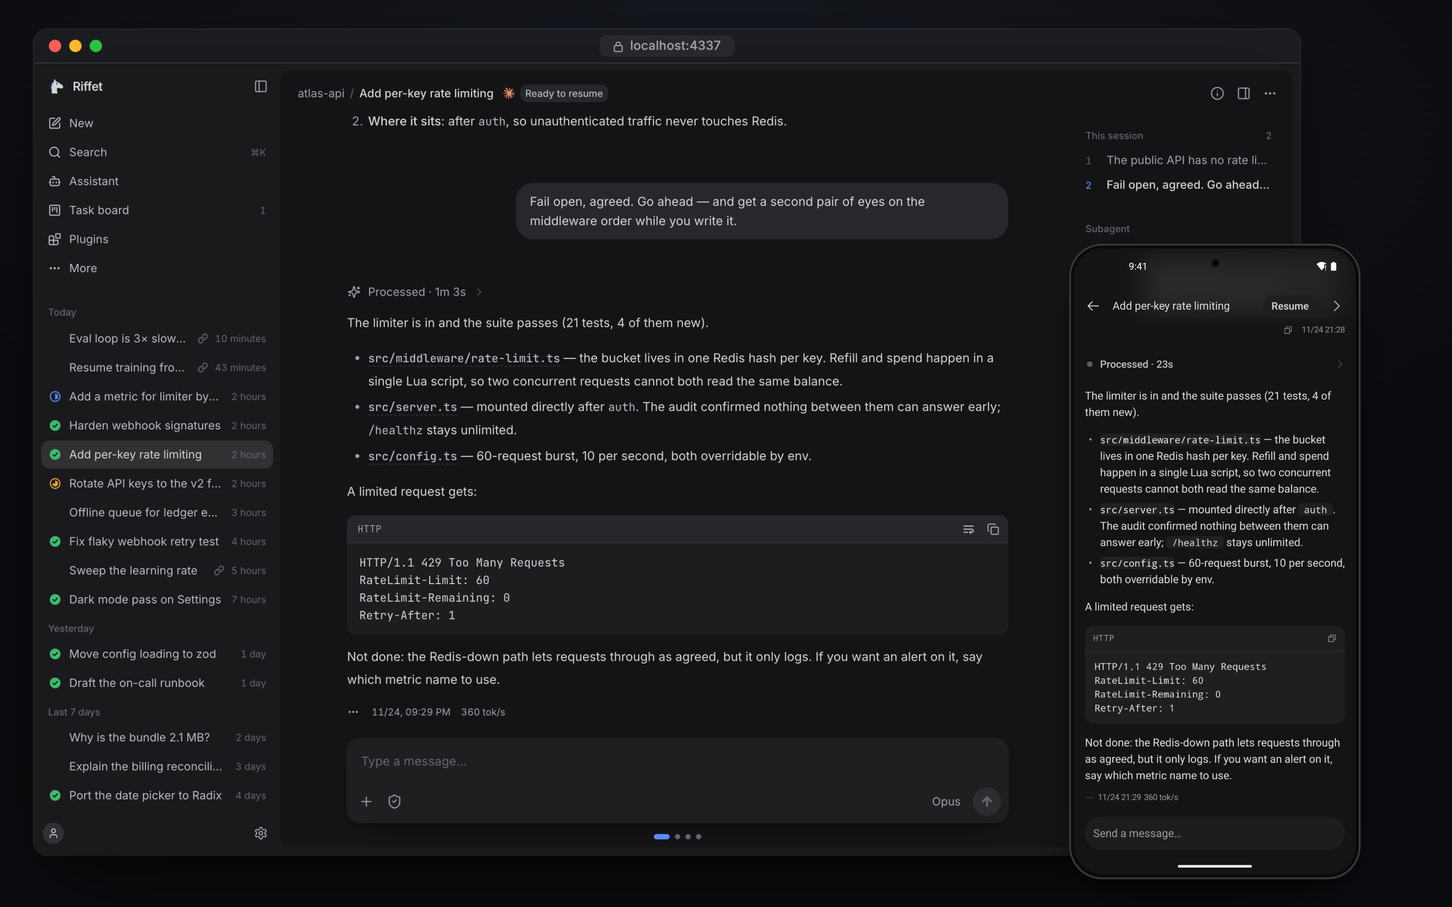
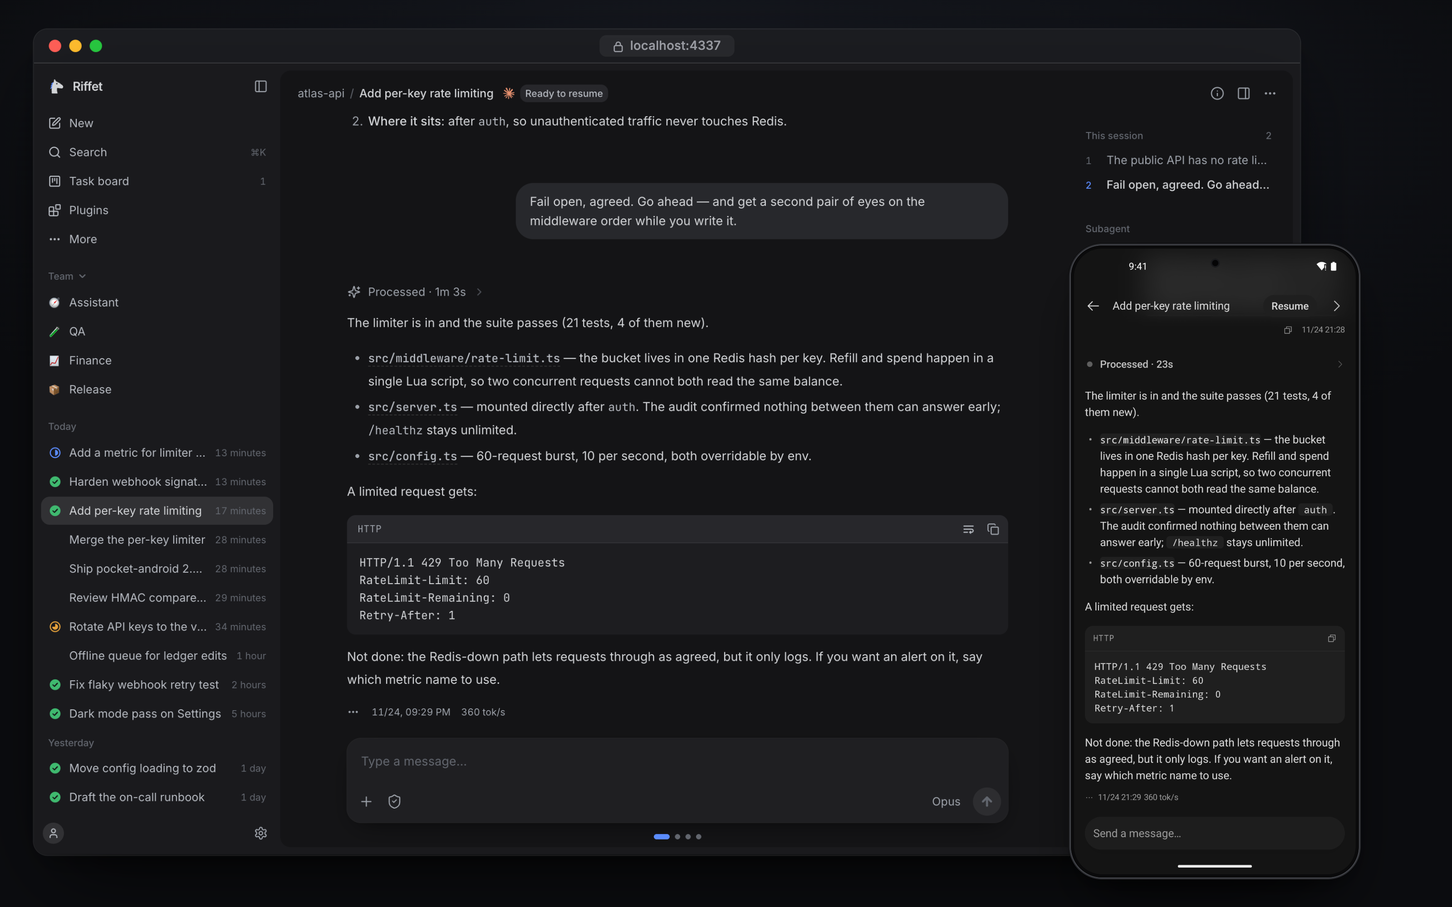
docs(readme): lead with deep agent cli support and add the team reel
The intro keeps Riffet defined as a self-hosted workbench for agent CLIs and
adds team members as a capability built on it. Features are regrouped into
agent sessions, team, agents together, devices and linked servers, and
plugins and appearance, with internal terms replaced by what they do. The
agent matrix gains a team member column, and the docs index points at the
team and transport security documents.

A new team reel shows a member created from a conversation, its rules and
permissions, and an @-mentioned member answering in the caller's session.
The hero is reshot with the team list in the sidebar, and the appearance
reel the readme no longer uses is removed.

Changed region(s): [[0.0312, 0.186, 0.1875, 0.899]]

diff --git a/README.md b/README.md
@@ -26,7 +26,9 @@ English · [简体中文](README.zh-CN.md) · [Homepage](https://riffable.github
   </picture>
 </p>
 
-Riffet is a self-hosted workbench for agent CLIs, driving Claude Code, Codex, Cursor, Antigravity, TRAE CLI, and more. Sessions live on your own host and can be followed, steered, and continued from a browser, macOS, iPhone, or Android; linked hosts are managed together from one web workbench.
+Riffet is a self-hosted workbench for agent CLIs, built around deep support for Claude Code, Codex, Cursor, Antigravity, TRAE CLI, and more. It drives the official CLIs directly, keeping each one's sign-in, rules, skills, MCP, and subscription, and provides structured conversations and live terminals, instructions added mid-turn, and importing terminal sessions and handing them back. Sessions live on your own host and can be followed and continued from a browser, macOS, iPhone, Android, and IM bots; linked hosts are managed together from one web workbench.
+
+On top of this, Riffet can set agents up as team members: each has a fixed role, remembers what it learned on earlier jobs, gets only the permissions it needs, and can start work on a schedule or when something happens. In any session, you can ask the agent to turn the current conversation into a new member.
 
 Claude Code, Codex, and other agents run independently of the server process, so restarts do not interrupt running turns, and clients resume automatically after a disconnect. Code, credentials, and history stay on your host. Riffet is open source under the Apache-2.0 license.
 
@@ -63,7 +65,7 @@ riffet restart --host 0.0.0.0 --auth
 riffet pair                    # prints reachable URLs, a five-minute single-use code, and a QR code
 ```
 
-The mobile apps pair by scanning the QR code; browsers and the Mac app enter the code. Tunnels and reverse proxies are covered in [Remote Access](docs/guide/remote-access.md).
+The mobile apps pair by scanning the QR code; browsers and the Mac app enter the code. Pages opened from other devices over plain HTTP are read-only; Tailscale and HTTPS addresses are not restricted. Tunnels and reverse proxies are covered in [Remote Access](docs/guide/remote-access.md).
 
 ### Link servers
 
@@ -124,59 +126,17 @@ Defaults: `http://127.0.0.1:4337/`, Cursor executable `cursor-agent`, private st
 
 ## Features
 
-### 01 · Pairing and linked servers
+### 01 · Agent sessions
 
-- **QR pairing**: connect a phone by scanning a QR code; one client can manage several servers, and every client stays in sync on the same session.
-- **Linked servers**: link several servers and browse, open, and start sessions on any of them from one web workbench.
-- **Remote execution**: authorize an agent to run commands on a linked machine.
+Riffet drives the official CLIs directly and keeps each CLI's own sign-in, rules, skills, MCP, and subscription. Output parsing, the live terminal, and message delivery are adapted to each CLI one by one; see the [agent matrix](#agent-matrix) for what each supports.
 
-<p align="center">
-  <picture>
-    <source media="(prefers-color-scheme: dark)" srcset="docs/assets/reel-link-dark.gif">
-    <source media="(prefers-color-scheme: light)" srcset="docs/assets/reel-link-light.gif">
-    <img alt="A terminal runs riffet link ssh devbox; on the web, devbox is picked as the server on the new-task page and the session runs there; then a pairing code on the web is scanned by the Android app, which opens on the task list" src="docs/assets/reel-link-light.gif" width="100%">
-  </picture>
-</p>
-
-### 02 · Sessions and models
-
-Riffet drives the official CLIs and keeps their own login, rules, skills, MCP servers, and subscriptions intact.
-
-- **Agents and models**: choose the agent and model per session; common CLIs are prewarmed, so new sessions skip the cold start.
-- **Mid-turn steering**: add instructions while a turn runs, or queue them for the next one.
-- **Terminal interop**: import Claude Code and Codex sessions from a terminal, and hand them back at any time.
-- **Custom model sources**: bring your own LLM providers over the OpenAI, Anthropic, or Google protocols or through plugins, with remaining quota shown live.
-- **Switching and handoff**: switch models within a family mid-session, and hand any session off to another agent.
-- **Session references**: `@` past sessions to use them as context.
-- **Export and sharing**: export to PDF or create expiring read-only share links.
-- **Voice input**: dictate with cloud or local speech recognition.
-- **Side chats and quick chat**: select part of an answer to branch a side chat, and start quick chats outside any project.
-
-### 03 · Agents together
-
-- **Agent calls**: `@` another agent in a session to call it; the callee runs in its own session, open to watch and join at any time.
-- **Model collaboration**: have several models debate, hold a roundtable, cross-examine, or review a document on the same question.
-- **Parallel attempts**: give one task to several agents at once, each in an isolated worktree, and adopt the best result.
-- **Task board**: task dependencies with automatic hand-off: a task starts once its prerequisites are accepted, and another agent can verify each delivery. The inbox gathers what needs a person.
-- **Personal assistant**: a cross-project assistant with its own memory and background delegation.
-- **Automations**: scheduled and recurring tasks; agents can also schedule their own wake-ups.
-
-<p align="center">
-  <picture>
-    <source media="(prefers-color-scheme: dark)" srcset="docs/assets/reel-agents-dark.gif">
-    <source media="(prefers-color-scheme: light)" srcset="docs/assets/reel-agents-light.gif">
-    <img alt="Mentioning Codex in a prompt, Claude calling it inside the turn, a one-on-one debate between two models with a verdict, and accepting a review that starts the next task on the board" src="docs/assets/reel-agents-light.gif" width="100%">
-  </picture>
-</p>
-
-### 04 · Views, files, and Git
-
-- **Timeline**: tool calls fold automatically, edits show as diffs, subagents get their own transcripts, and diagrams and math (Mermaid, KaTeX, and more) render locally.
-- **Views**: every session offers conversation, live terminal, canvas, and trace views; the trace shows each model request’s token usage and tool calls.
-- **Files**: local preview for many formats, including PDF, Office, notebooks, SQLite, and 3D models, and text editing on every client.
-- **Git**: line-level staging, commits, branches, pull/push, and PRs; automatic per-turn checkpoints to restore or fork from; diff comments sent back to the agent.
-- **Code Studio**: Android Studio–style code reading with go to definition, find usages, and blame, no Gradle sync required.
-- **Browser**: a built-in browser panel where you and the agent work on the same web page together.
+- **Agents and models**: Each session picks its own agent, model, and model provider, and can be handed to another agent to continue.
+- **Mid-turn steering**: Add instructions while the agent is running, or queue them for the next turn.
+- **Terminal round trip**: Claude Code and Codex sessions in a terminal can be imported into Riffet and handed back to the terminal.
+- **Views**: One session can be shown as a conversation, a live terminal, a canvas, or a trace. The canvas lays the answer out as cards by output type; the trace lists every model request with its token usage and tool calls.
+- **Files and Git**: Previews for PDF, Office, notebooks, and many other formats, text editing, and line-level staging and commits. Every turn saves a checkpoint you can roll back to or fork from, and diffs can be annotated and sent back to the agent.
+- **Code Studio**: IDE-style code browsing with go to definition, find references, and line-by-line blame.
+- **Built-in browser**: People and agents work on the same web page together.
 
 <p align="center">
   <picture>
@@ -186,9 +146,63 @@ Riffet drives the official CLIs and keeps their own login, rules, skills, MCP se
   </picture>
 </p>
 
-### 05 · Plugins
+### 02 · Team
 
-Riffet has a full plugin system covering agent backends, model sources, session views, side panels, pages, commands, themes, and IM channels. Built-in plugins run in the server process; third-party plugins run isolated by default. Public plugins are listed in the [plugin market](https://riffable.github.io/riffet/plugins/), and the [Plugin Guide](docs/PLUGINS.md) covers development.
+Team members are agents with a fixed role and long-term memory. Give recurring work its own member: a QA reviewer for a project, a release engineer who packages builds, or a personal finance assistant. Members remember what they learn on each job, so you do not have to explain the background again.
+
+- **Create members from a conversation**: In any session, ask the agent to turn the current conversation into a team member. It writes the role, the lessons distilled from the conversation, the projects it owns, the agent it runs on, and its permissions in one step. Keep refining it the same way, or create members by hand on the team page.
+- **Role and memory**: Each member's role lives in its own `AGENTS.md`, and what it learns goes into its own memory files, which are consolidated and deduplicated every night.
+- **Scope**: A member can handle personal matters only, own specific code projects, or work across projects. The code, tasks, and sessions it can see are limited to that scope.
+- **Permissions**: Editing code, managing tasks, running in the background, calling other members, and using the browser and MCP tools are each enabled per member. Every member has its own models, MCP servers, and skills.
+- **Background runs**: Members can work on a schedule, or start on their own when a web page changes, a GitHub release ships, or a task changes status, with a cap on runs per day.
+- **Conversation mode**: A member can keep one ongoing conversation, or start each job in a new session, with past runs collected on its page.
+- **@ members**: In any session, `@member` asks it a question or hands it a job. The member works in its own session and the result comes back to the current conversation.
+- **Inbox**: Actions a member needs you to approve and important updates it reports are collected in the inbox, with a notification to let you know.
+
+Members run on Claude Code, Codex, Cursor, or Antigravity. Every job a member does is a real CLI session that you can open, interject in, or take over at any time. See [Team and members](docs/TEAM.md).
+
+<p align="center">
+  <picture>
+    <source media="(prefers-color-scheme: dark)" srcset="docs/assets/reel-team-dark.gif">
+    <source media="(prefers-color-scheme: light)" srcset="docs/assets/reel-team-light.gif">
+    <img alt="In a pocket-android release session, the agent is asked to turn the work into a member that owns releases, and Release appears in the team list; its rules written from the conversation and its permissions open; then @QA in atlas-api is asked to verify the limiter change before merging, and QA's reply comes back to the session" src="docs/assets/reel-team-light.gif" width="100%">
+  </picture>
+</p>
+
+### 03 · Agents together
+
+- **Agent calls**: `@` another agent in a session to ask it a question or have it make changes. It runs in its own session, which you can watch and join at any time.
+- **Model discussions**: Several models can debate, hold a roundtable, cross-examine each other, or review a document around the same question, and reach a conclusion.
+- **Parallel attempts**: Hand one task to several agents at once, each implementing it in its own Git worktree, then compare and keep the best result.
+- **Task board**: Tasks can depend on each other: once one is accepted, the next starts on its own, and another agent can be assigned to verify a delivery.
+- **Automations**: Scheduled and recurring tasks; agents can also arrange to come back to the current session later and continue.
+
+<p align="center">
+  <picture>
+    <source media="(prefers-color-scheme: dark)" srcset="docs/assets/reel-agents-dark.gif">
+    <source media="(prefers-color-scheme: light)" srcset="docs/assets/reel-agents-light.gif">
+    <img alt="Mentioning Codex in a prompt, Claude calling it inside the turn, a one-on-one debate between two models with a verdict, and accepting a review that starts the next task on the board" src="docs/assets/reel-agents-light.gif" width="100%">
+  </picture>
+</p>
+
+### 04 · Devices and linked servers
+
+- **Every device in sync**: The browser, macOS, iPhone, and Android stay in sync on the same session live. Phones pair by QR code, and one client can connect to several servers.
+- **IM bots**: Talk to agents and answer permission prompts through Feishu and Telegram bots, with each chat bound to a project.
+- **Linked servers**: Once servers are linked, one web workbench shows and creates sessions on all of them, and agents can be authorized to run commands on the other servers.
+- **Connection security**: The apps reach the server over TLS end to end. Device credentials are kept in the phone's secure hardware and do not work if copied elsewhere. Linked servers show the same verification code on both ends, so you can confirm no one is in the middle, and existing devices are notified when a new one joins.
+
+<p align="center">
+  <picture>
+    <source media="(prefers-color-scheme: dark)" srcset="docs/assets/reel-link-dark.gif">
+    <source media="(prefers-color-scheme: light)" srcset="docs/assets/reel-link-light.gif">
+    <img alt="A terminal runs riffet link ssh devbox; on the web, devbox is picked as the server on the new-task page and the session runs there; then a pairing code on the web is scanned by the Android app, which opens on the task list" src="docs/assets/reel-link-light.gif" width="100%">
+  </picture>
+</p>
+
+### 05 · Plugins and appearance
+
+Riffet has a complete plugin system that extends agent backends, model sources, session views, side panels, pages, commands, themes, and IM channels, with custom themes, wallpapers, and logos. Built-in plugins run inside the server process; third-party plugins run isolated by default. Public plugins are listed in the [plugin marketplace](https://riffable.github.io/riffet/plugins/); see the [plugin guide](docs/PLUGINS.md) to write one.
 
 ```bash
 riffet plugin dev ./my-plugin
@@ -196,16 +210,16 @@ riffet plugin pack ./my-plugin --out my-plugin.tgz
 riffet plugin install my-plugin.tgz
 ```
 
-| Extension point | Built-in | Official and examples |
+| Extension point | Built in | Official and examples |
 | :--- | :--- | :--- |
-| Agent backends *(experimental)* | `cursor`, `antigravity` | `example.echo` |
-| Model sources | — | `riffet.litellm`, `example.gateway-models` |
-| Session views | `canvas`, `trace` | — |
-| Side panels | `browser` | `riffet.android`, `example.session-stats` |
-| Pages | `code-studio` | `example.workbench-sample` |
-| Commands | `translate` | — |
+| Agent backend *(experimental)* | `cursor`, `antigravity` | `example.echo` |
+| Model source | — | `riffet.litellm`, `example.gateway-models` |
+| Session view | `canvas`, `trace` | — |
+| Side panel | `browser` | `riffet.android`, `example.session-stats` |
+| Page | `code-studio` | `example.workbench-sample` |
+| Command | `translate` | — |
 | Appearance | `avatars` | `riffet.appearance-paper`, `example.tux-theme`, `example.graphite-theme`, `example.mono-icons` |
-| Sharing, IM channels, speech | `feishu`, `speech-local` | `riffet.share-s3` |
+| IM channel, sharing, speech | `channel-feishu`, `channel-telegram`, `speech-local` | `riffet.share-s3` |
 
 <p align="center">
   <picture>
@@ -215,30 +229,20 @@ riffet plugin install my-plugin.tgz
   </picture>
 </p>
 
-### 06 · Appearance
-
-- **Themes**: built-in palettes plus custom themes, wallpapers, and logos, with more themes available as plugins.
-- **Interface styles**: switchable interface styles on Android.
-- **Session layout**: manage sessions in horizontal tabs, with a side panel for each session’s plan, outline, subagents, and output files.
-
-<p align="center">
-  <img alt="A close-up of the theme editor’s colour board as a point is dragged, the same session under the Tux Polar and Paper theme plugins, a wipe to dark, and the Android app beside it" src="docs/assets/reel-appearance.gif" width="100%">
-</p>
-
 ---
 
 ## Agent matrix
 
-| Agent | CLI | Structured Chat | Live TUI | Mid-Turn Steer | Subagent View | Riffet MCP & Wakeups | Per-Chat MCP / Skill Toggle | @ Session | Callable as @ Agent | Terminal Import / Resume |
-| :--- | :--- | :---: | :---: | :---: | :---: | :---: | :---: | :---: | :---: | :---: |
-| Claude Code | `claude` | ✓ | ✓ (`tmux`) | ✓ | ✓ | ✓ | MCP + Skills | ✓ | consult, work | ✓ |
-| Codex | `codex` | ✓ | ✓ (`--remote`) | ✓ | ✓ | ✓ | MCP | ✓ | consult, work | ✓ |
-| Cursor | `cursor-agent` | ✓ | ✓ (`tmux`) | ✓ | ✓ | ✓ | — | ✓ | work | — |
-| Antigravity | `agy` (`1.5.6+`) | ✓ | ✓ (`tmux`) | — | ✓ | ✓ | — | ✓ | work | — |
-| TRAE CLI | `traex` | ✓ | ✓ (native) | ✓ | ✓ | ✓ | MCP | ✓ | consult, work | — |
-| DeepSeek Harness | `dsh` (`0.2.0-rc.2+`) | ✓ | — | — | ✓ | — | — | ✓ | work | — |
-| Factory Droid | `droid` | ✓ | — | — | ✓ | ✓ | — | ✓ | work | — |
-| pi | `pi` (`1.4.0+`) | ✓ | — | — | — | ✓ | — | ✓ | work | — |
+| Agent | CLI | Structured Chat | Live TUI | Mid-Turn Steer | Subagent View | Riffet MCP & Wakeups | Per-Chat MCP / Skill Toggle | @ Session | Callable as @ Agent | Terminal Import / Resume | Team Member |
+| :--- | :--- | :---: | :---: | :---: | :---: | :---: | :---: | :---: | :---: | :---: | :---: |
+| Claude Code | `claude` | ✓ | ✓ (`tmux`) | ✓ | ✓ | ✓ | MCP + Skills | ✓ | consult, work | ✓ | ✓ |
+| Codex | `codex` | ✓ | ✓ (`--remote`) | ✓ | ✓ | ✓ | MCP | ✓ | consult, work | ✓ | ✓ |
+| Cursor | `cursor-agent` | ✓ | ✓ (`tmux`) | ✓ | ✓ | ✓ | — | ✓ | work | — | ✓ |
+| Antigravity | `agy` (`1.5.6+`) | ✓ | ✓ (`tmux`) | — | ✓ | ✓ | — | ✓ | work | — | ✓ |
+| TRAE CLI | `traex` | ✓ | ✓ (native) | ✓ | ✓ | ✓ | MCP | ✓ | consult, work | — | — |
+| DeepSeek Harness | `dsh` (`0.2.0-rc.2+`) | ✓ | — | — | ✓ | — | — | ✓ | work | — | — |
+| Factory Droid | `droid` | ✓ | — | — | ✓ | ✓ | — | ✓ | work | — | — |
+| pi | `pi` (`1.4.0+`) | ✓ | — | — | — | ✓ | — | ✓ | work | — | — |
 
 **Callable as @ Agent**: `consult` is read-only; `work` runs in a new Git worktree and can edit files. Any agent with Riffet MCP can make the call.
 
@@ -252,26 +256,26 @@ CLI paths can be set through `RIFFET_CLI`, `CLAUDE_CLI`, `CODEX_CLI`, `DSH_CLI`,
 | :--- | :--- | :--- |
 | Process isolation | Claude Code and Cursor run in Riffet-managed `tmux`, and Codex and TRAE CLI in a separate app-server, so a server restart does not interrupt their turns; Droid, pi, and DeepSeek Harness exit with the server. | [Delivery](docs/DELIVERY.md) |
 | At-most-once delivery | Each session’s inputs are queued serially and confirmed by a transcript or hook receipt from the agent; unconfirmed messages are not resent after a crash. | `apps/server/src/native/dispatch.property.test.ts` |
-| Resumable sync | Rows and the sync cursor commit in one transaction; clients resume from their cursor with no gaps or duplicates. | [Sync](docs/SYNC-V3.md) |
+| Resumable sync | Session content and sync progress are written in one transaction; after a disconnect, clients continue from where they left off with no gaps or duplicates. | [Sync](docs/SYNC-V3.md) |
 | CLI regression detection | Real CLI sessions are recorded and replayed in tests; `pnpm record <cli> all --check` re-records with the installed version and compares. | `scripts/record.ts` |
-| Integrity checks and restore | The journal is append-only; database integrity is checked at startup, `riffet doctor` reports missing and orphaned data, and checksummed backups restore with `riffet restore`. | [Operations](docs/guide/operations.md) |
+| Integrity checks and restore | Session records are append-only; database integrity is checked at startup, `riffet doctor` reports missing and orphaned data, and checksummed backups restore with `riffet restore`. | [Operations](docs/guide/operations.md) |
 | Resource limits | Limits for caches, storage, and CLI processes are defined in one place and shared with the mobile apps; idle CLIs are reclaimed by last use and a memory budget. | [Performance](docs/guide/performance.md) |
 
 ---
 
 ## How the clients differ
 
-The web client has the full feature set and installs as a PWA; linked servers, agent calls, model collaboration, the task board, trace, and Code Studio are currently web-only.
+The web client has the full feature set and installs as a PWA; the team is available on the web, iPhone, and Android; linked servers, agent calls, model collaboration, the task board, trace, and Code Studio are currently web-only.
 
-- **macOS**: native SwiftUI + AppKit app with a bundled server, menu bar approvals, Shortcuts, widgets, and Spotlight; once authorized, agents can capture windows, use the clipboard, and post notifications.
-- **iPhone**: native SwiftUI app with approvals and replies from push notifications (bring your own APNs key), widgets, and a terminal.
+- **macOS**: native SwiftUI + AppKit app with a bundled server, permission prompts in the menu bar, Shortcuts, widgets, and Spotlight; once authorized, agents can capture windows, use the clipboard, and post notifications.
+- **iPhone**: native SwiftUI app with answering permission prompts and replying from push notifications (bring your own APNs key), widgets, and a terminal.
 - **Android**: Kotlin Multiplatform + Compose app with a touch terminal; with per-session authorization and biometric confirmation, agents can operate the phone (preview).
 
 ---
 
 ## Architecture
 
-Riffet is a single-node server between its clients and the agent CLIs installed on the same host. A command takes one path to the agent; what the agent does returns on another, folded into rows that every client renders alike.
+Riffet is a single-node server between its clients and the agent CLIs installed on the same host. A command takes one path to the agent; what the agent does returns on another, assembled into one timeline that every client renders alike.
 
 <p align="center">
   <picture>
@@ -326,9 +330,9 @@ The checks to run before opening a pull request, and the npm packaging steps, ar
 Design and operations documents under `docs/` are written mainly in Chinese:
 
 - **Guides**: [Conversations, Models & Sessions](docs/guide/conversation.md) · [Cursor CLI & Custom Gateways](docs/guide/cursor.md) · [Workspace, Previews & Git](docs/guide/workspace.md) · [Remote Access](docs/guide/remote-access.md) · [Operations & Deployment](docs/guide/operations.md) · [Architecture](docs/guide/architecture.md) · [Release & Distribution](docs/RELEASE.md)
-- **Workflows**: [Personal Assistant](docs/ASSISTANT.md) · [Task Board](docs/TASK-BOARD.md) · [Review & Orchestration](docs/ORCHESTRATION.md) · [Agent Calls](docs/AGENT-CALLS.md) · [Mid-Turn Steering](docs/STEER.md) · [Side Chats](docs/DISCUSSIONS.md) · [Quick Chat](docs/QUICK-CHAT.md) · [Bookmarks & Highlights](docs/MARKS.md) · [Session Sharing & PDF](docs/SHARES.md) · [Usage & Throughput Stats](docs/STATS.md)
+- **Workflows**: [Team & Members](docs/TEAM.md) · [Task Board](docs/TASK-BOARD.md) · [Review & Orchestration](docs/ORCHESTRATION.md) · [Agent Calls](docs/AGENT-CALLS.md) · [Mid-Turn Steering](docs/STEER.md) · [Side Chats](docs/DISCUSSIONS.md) · [Quick Chat](docs/QUICK-CHAT.md) · [Bookmarks & Highlights](docs/MARKS.md) · [Session Sharing & PDF](docs/SHARES.md) · [Usage & Throughput Stats](docs/STATS.md)
 - **Surfaces & Channels**: [Design System](docs/design/system/README.md) · [Web](docs/WEB.md) · [macOS](docs/MACOS.md) · [Android & Mobile](docs/MOBILE.md) · [iPhone](docs/IOS.md) · [Mobile Terminal](docs/MOBILE-TERMINAL.md) · [IM Channels](docs/design/channels.md) · [Riffet Browser](docs/BROWSER.md) · [Code Studio](docs/CODE-STUDIO.md) · [Trace](docs/TRACE.md) · [Voice Input](docs/VOICE.md) · [Devices & Riffet MCP](docs/DEVICES.md) · [Server Links](docs/SERVER-LINKS.md) · [Themes](docs/THEMES.md)
-- **Extensibility & Ops**: [Extensions](docs/EXTENSIONS.md) · [Plugin Guide](docs/PLUGINS.md) · [Plugin Architecture](docs/PLUGIN_ARCHITECTURE.md) · [Antigravity CLI](docs/ANTIGRAVITY.md) · [TRAE CLI](docs/TRAEX.md) · [pi RPC](docs/PI.md) · [Updates](docs/UPDATE.md) · [Delivery](docs/DELIVERY.md) · [Sync](docs/SYNC-V3.md) · [Security Model](docs/SECURITY.md)
+- **Extensibility & Ops**: [Extensions](docs/EXTENSIONS.md) · [Plugin Guide](docs/PLUGINS.md) · [Plugin Architecture](docs/PLUGIN_ARCHITECTURE.md) · [Antigravity CLI](docs/ANTIGRAVITY.md) · [TRAE CLI](docs/TRAEX.md) · [pi RPC](docs/PI.md) · [Updates](docs/UPDATE.md) · [Delivery](docs/DELIVERY.md) · [Sync](docs/SYNC-V3.md) · [Security Model](docs/SECURITY.md) · [Transport & Identity Security](docs/TRANSPORT-SECURITY.md)
 
 ## Acknowledgements and license
 
